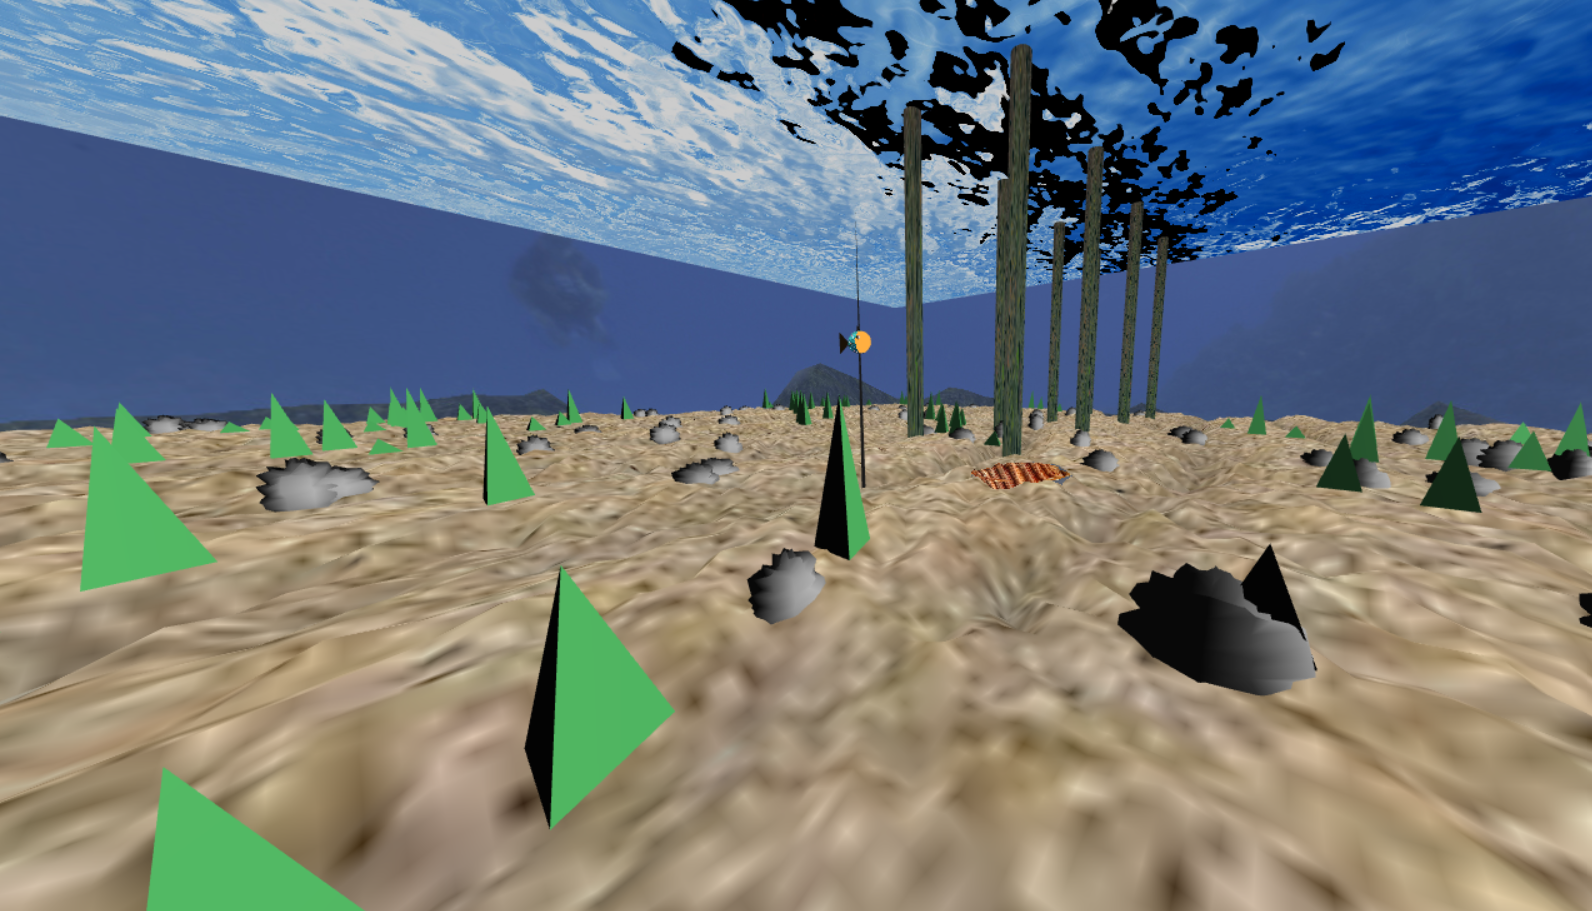
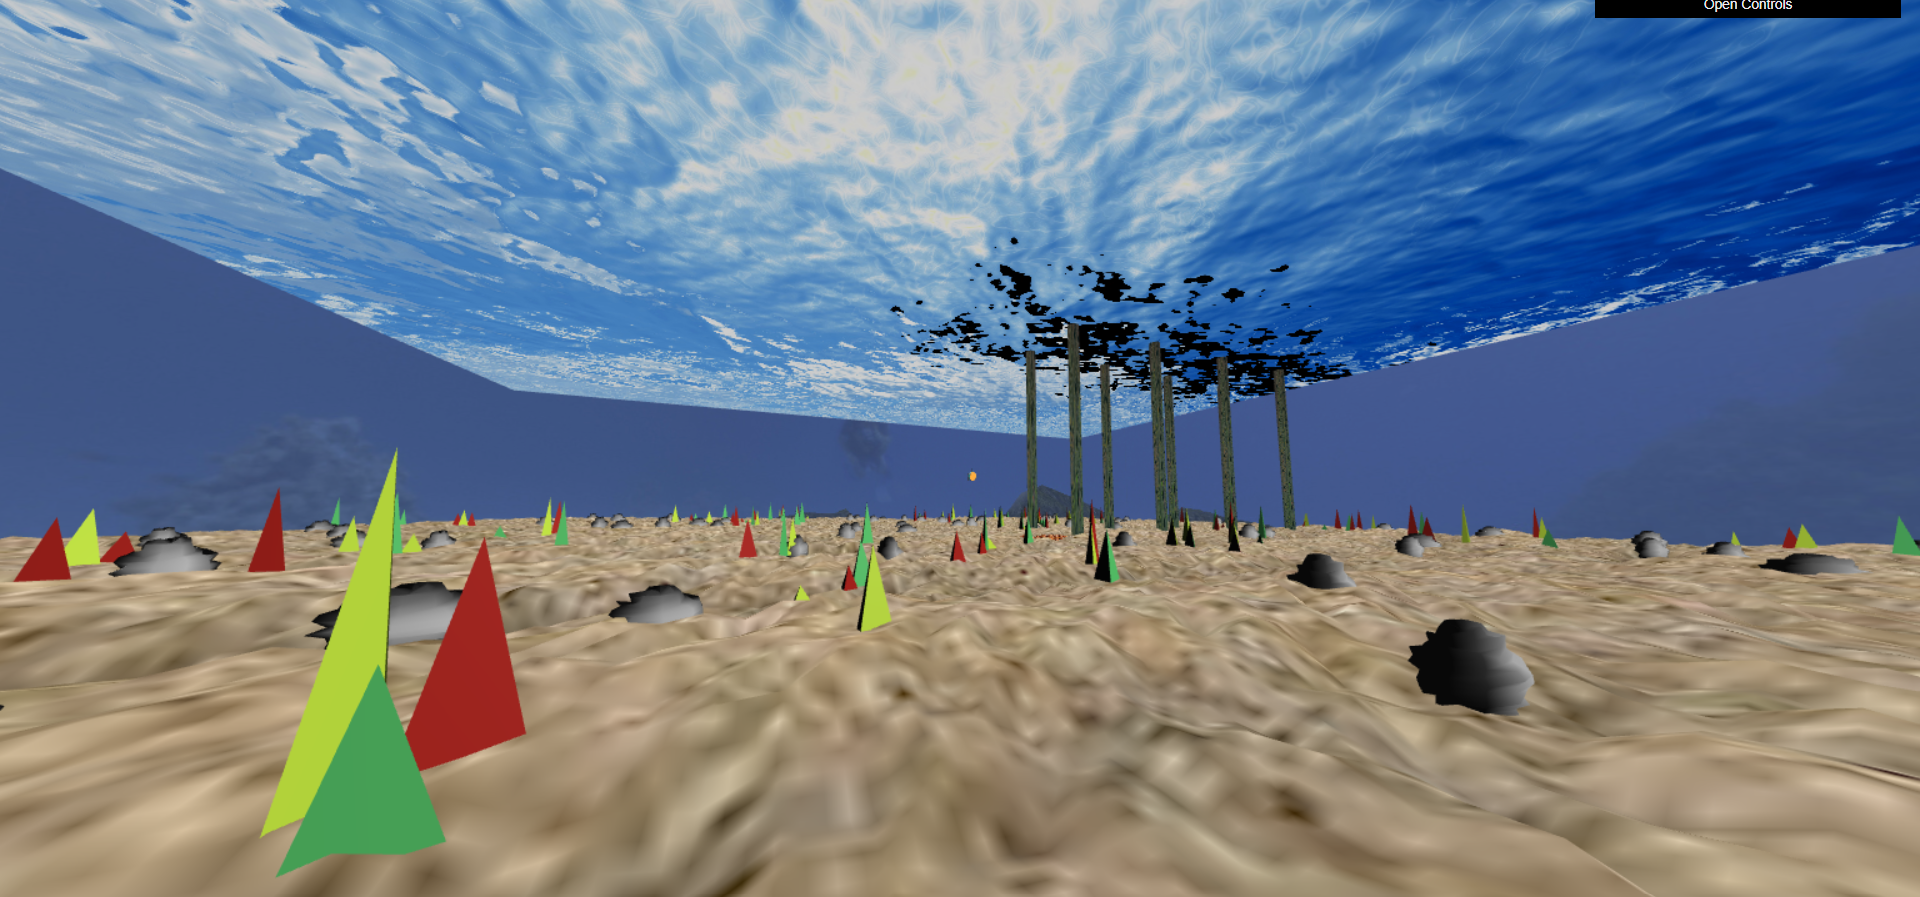
Added restrictions in pos random elems + more colors for algae

diff --git a/project/MyAlgaeSet.js b/project/MyAlgaeSet.js
@@ -9,9 +9,12 @@ import { MyPyramid } from './MyPyramid.js';
  * @param stacks - number of stacks for each algae
  * @param nrClusters - number of algae to be generated
  * @param length - the length of the sea floor
+ * @param nestX - the x coordinate of the nest
+ * @param nestZ - the z coordinate of the nest
+ * @param nestRadius - the radius of the nest
 */
 export class MyAlgaeSet extends CGFobject {
-	constructor(scene, slices, stacks, nrClusters, length) {
+	constructor(scene, slices, stacks, nrClusters, length, nestX, nestZ, nestRadius) {
 		super(scene);
 		this.algae = new MyPyramid(this.scene, slices, stacks);
 		this.nrClusters = nrClusters;
@@ -21,17 +24,24 @@ export class MyAlgaeSet extends CGFobject {
 		var pos;
 		for (let i = 0; i < this.nrClusters; i++) {
 			pos = [Math.random() * length - length/2, Math.random() * length - length/2];
-			this.scale.push((Math.random() * 4) + 1);
+
+			//if location inside the nest
+			if((pos[0] >= nestX - 0.5 && pos[0] <= nestX + nestRadius + 0.5) && ((pos[1] >= nestZ - 0.5 && pos[1] <= nestX + nestRadius + 0.5)) ){
+				pos[0] += nestRadius + 1;
+				pos[1] += nestRadius + 1;
+			} 
+
+			this.scale.push([Math.random()*0.5 + 0.3, (Math.random() * 4) + 1, Math.random()* 0.5 + 0.5]);
 			this.pos.push(pos);
 			var number = Math.floor(Math.random()*4 + 1);
 			for (let j = 0; j < number; j++) {
-				this.scale.push((Math.random() * 4) + 1);
+				this.scale.push([Math.random()*0.5 + 0.5, (Math.random() * 4) + 1, Math.random()*0.5 + 0.3]);
 
 				if(j % 2 == 0){
-					this.xpos = pos[0] + j; this.zpos = pos[1] - j*0.5;
+					this.xpos = pos[0] + j + 0.2; this.zpos = pos[1] - j*0.5 - 0.2;
 				}
 				else{
-					this.xpos = pos[0] - j * 0.5; this.zpos = pos[1] + j;
+					this.xpos = pos[0] - j * 0.5 - 0.2; this.zpos = pos[1] + j + 0.2;
 				}
 								
 				if(this.xpos < -length/2 + 0.5) this.xpos = - length/2 + 1;
@@ -46,22 +56,42 @@ export class MyAlgaeSet extends CGFobject {
 			this.nrAlgae += number;
 		}
 
-		 // Algae Material
-		 this.scene.algaeMat = new CGFappearance(this.scene);
-		 this.scene.algaeMat.setAmbient(0.1, 0.1, 0.1, 1);
-		 this.scene.algaeMat.setDiffuse(0.32, 0.73, 0.39, 1);
-		 this.scene.algaeMat.setSpecular(0.1, 0.1, 0.1, 1);
-		 this.scene.algaeMat.setShininess(10.0);
+		 // Algae Material 1 
+		 this.scene.algaeMat1 = new CGFappearance(this.scene);
+		 this.scene.algaeMat1.setAmbient(0.1, 0.1, 0.1, 1);
+		 this.scene.algaeMat1.setDiffuse(0.32, 0.73, 0.39, 1);
+		 this.scene.algaeMat1.setSpecular(0.1, 0.1, 0.1, 1);
+		 this.scene.algaeMat1.setShininess(10.0);
+
+		 // Algae Material 2 
+		 this.scene.algaeMat2 = new CGFappearance(this.scene);
+		 this.scene.algaeMat2.setAmbient(0.1, 0.1, 0.1, 1);
+		 this.scene.algaeMat2.setDiffuse(0.723, 0.855, 0.234, 1);
+		 this.scene.algaeMat2.setSpecular(0.1, 0.1, 0.1, 1);
+		 this.scene.algaeMat2.setShininess(10.0);
+
+		 // Algae Material 3
+		 this.scene.algaeMat3 = new CGFappearance(this.scene);
+		 this.scene.algaeMat3.setAmbient(0.1, 0.1, 0.1, 1);
+		 this.scene.algaeMat3.setDiffuse(0.625, 0.125, 0.102, 1);
+		 this.scene.algaeMat3.setSpecular(0.1, 0.1, 0.1, 1);
+		 this.scene.algaeMat3.setShininess(10.0);
 	}
 
 	display() {
 
-		this.scene.algaeMat.apply();
-
+		
 		for (let i = 0; i < this.nrAlgae; i++) {
+
+			//For different algae colors
+			var idx = i % 3;
+			if(idx == 0) this.scene.algaeMat1.apply();
+			else if (idx == 1) this.scene.algaeMat2.apply();
+			else this.scene.algaeMat3.apply();
+
 			this.scene.pushMatrix();
-			this.scene.translate(this.pos[i][0], 0.8, this.pos[i][1]);
-			this.scene.scale(1, this.scale[i], 1);
+			this.scene.translate(this.pos[i][0], 0.6, this.pos[i][1]);
+			this.scene.scale(this.scale[i][0], this.scale[i][1], this.scale[i][2]);
 			this.scene.scale(0.3, 0.3, 0.3);
 			this.algae.display();
 			this.scene.popMatrix();

diff --git a/project/MyRockSet.js b/project/MyRockSet.js
@@ -9,16 +9,30 @@ import { MyRock } from './MyRock.js';
  * @param stacks - number of stacks for each rock
  * @param nrRocks - number of rocks to be generated
  * @param length - the length of the sea floor
+ * @param nestX - the x coordinate of the nest
+ * @param nestZ - the z coordinate of the nest
+ * @param nestRadius - the radius of the nest
+ * 
 */
 export class MyRockSet extends CGFobject {
-	constructor(scene, slices, stacks, nrRocks, length) {
+	constructor(scene, slices, stacks, nrRocks, length, nestX, nestZ, nestRadius) {
 		super(scene);
 		this.rock = new MyRock(this.scene, slices, stacks);
 		this.nrRocks = nrRocks;
 		this.pos = [];
 		this.scale = [];
+		var pos;
+
 		for (let i = 0; i < this.nrRocks; i++) {
-			this.pos.push([Math.random() * length - length/2, Math.random() * length - length/2]);
+			pos = [Math.random() * length - length/2, Math.random() * length - length/2];
+
+			//if location inside the nest
+			if((pos[0] >= nestX - 0.5 && pos[0] <= nestX + nestRadius + 0.5) && ((pos[1] >= nestZ - 0.5 && pos[1] <= nestX + nestRadius + 0.5)) ){
+				pos[0] += nestRadius + 1;
+				pos[1] += nestRadius + 1;
+			} 
+
+			this.pos.push(pos);
 			this.scale.push([(Math.random() + 1) / 2, (Math.random() + 1) / 2, (Math.random() + 1) / 2]);
 		}
 	}

diff --git a/project/MyScene.js b/project/MyScene.js
@@ -117,11 +117,15 @@ export class MyScene extends CGFscene {
 
         this.mainFish = new MyFish(this, 0.4, [1.0, 0.6863, 0.2510, 1.0]);
 
-        this.seaFloor = new MySeaFloor(this, 150, 50, 1, 10, 1, 1, 2);
+        this.nestX = 1;
+        this.nestZ = 1;
+        this.nestRadius = 2;
 
-        this.rocks = new MyRockSet(this, 10, 10, 100, 50);
+        this.seaFloor = new MySeaFloor(this, 150, 50, 1, 10, this.nestX, this.nestZ, this.nestRadius);
 
-        this.algae = new MyAlgaeSet(this, 3, 5, 75, 50);
+        this.rocks = new MyRockSet(this, 10, 10, 100, 50, this.nestX, this.nestZ, this.nestRadius);
+
+        this.algae = new MyAlgaeSet(this, 3, 5, 75, 50, this.nestX, this.nestZ, this.nestRadius);
 
         this.waterSurface = new MyWaterSurf(this, 200, 50, 10);
 

diff --git a/project/MyRock.js b/project/MyRock.js
@@ -24,7 +24,6 @@ export class MyRock extends CGFobject {
   /**
    * @method initBuffers
    * Initializes the sphere buffers
-   * TODO: DEFINE TEXTURE COORDINATES
    */
   initBuffers() {
     this.vertices = [];
@@ -81,7 +80,6 @@ export class MyRock extends CGFobject {
 
         //--- Texture Coordinates
         this.texCoords.push(longitude/this.longDivs, latitude/this.latDivs);
-        // May need some additional code also in the beginning of the function.
         
       }
       phi += phiInc;
